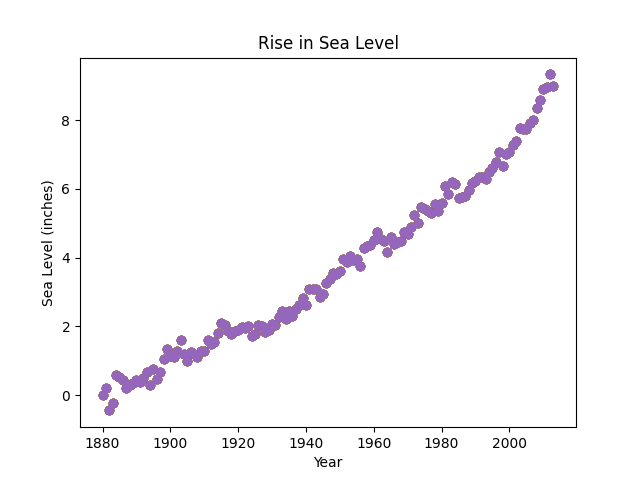
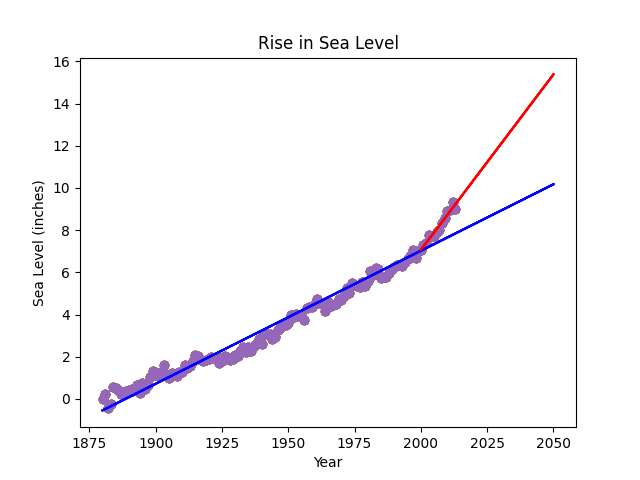
Plot 2 best fit lines

diff --git a/boilerplate-sea-level-predictor/sea_level_predictor.py b/boilerplate-sea-level-predictor/sea_level_predictor.py
@@ -1,6 +1,7 @@
 import pandas as pd
 import matplotlib.pyplot as plt
 from scipy.stats import linregress
+import numpy as np
 
 
 def draw_plot():
@@ -14,8 +15,27 @@ def draw_plot():
     )
 
     # Create first line of best fit
+    slope, intercept, r, p, se = linregress(df["Year"], df["CSIRO Adjusted Sea Level"])
+
+    # Line space is from 1880 to 2050
+    x_range = np.array([1880, 2050])
+    y_range = np.array([slope * i + intercept for i in x_range])
+
+    plt.plot(x_range, y_range, color="blue")
 
     # Create second line of best fit
+
+    # Filter dataframe to only consider data after year 2000
+    df_after_2000 = df.loc[df["Year"] >= 2000]
+    slope2, intercept2, r2, p2, se2 = linregress(
+        df_after_2000["Year"], df_after_2000["CSIRO Adjusted Sea Level"]
+    )
+
+    # Line space is from 2000 to 2050
+    x_range2 = np.array([2000, 2050])
+    y_range2 = np.array([slope2 * i + intercept2 for i in x_range2])
+
+    plt.plot(x_range2, y_range2, color="red")
 
     # Add labels and title
     plt.xlabel("Year")
